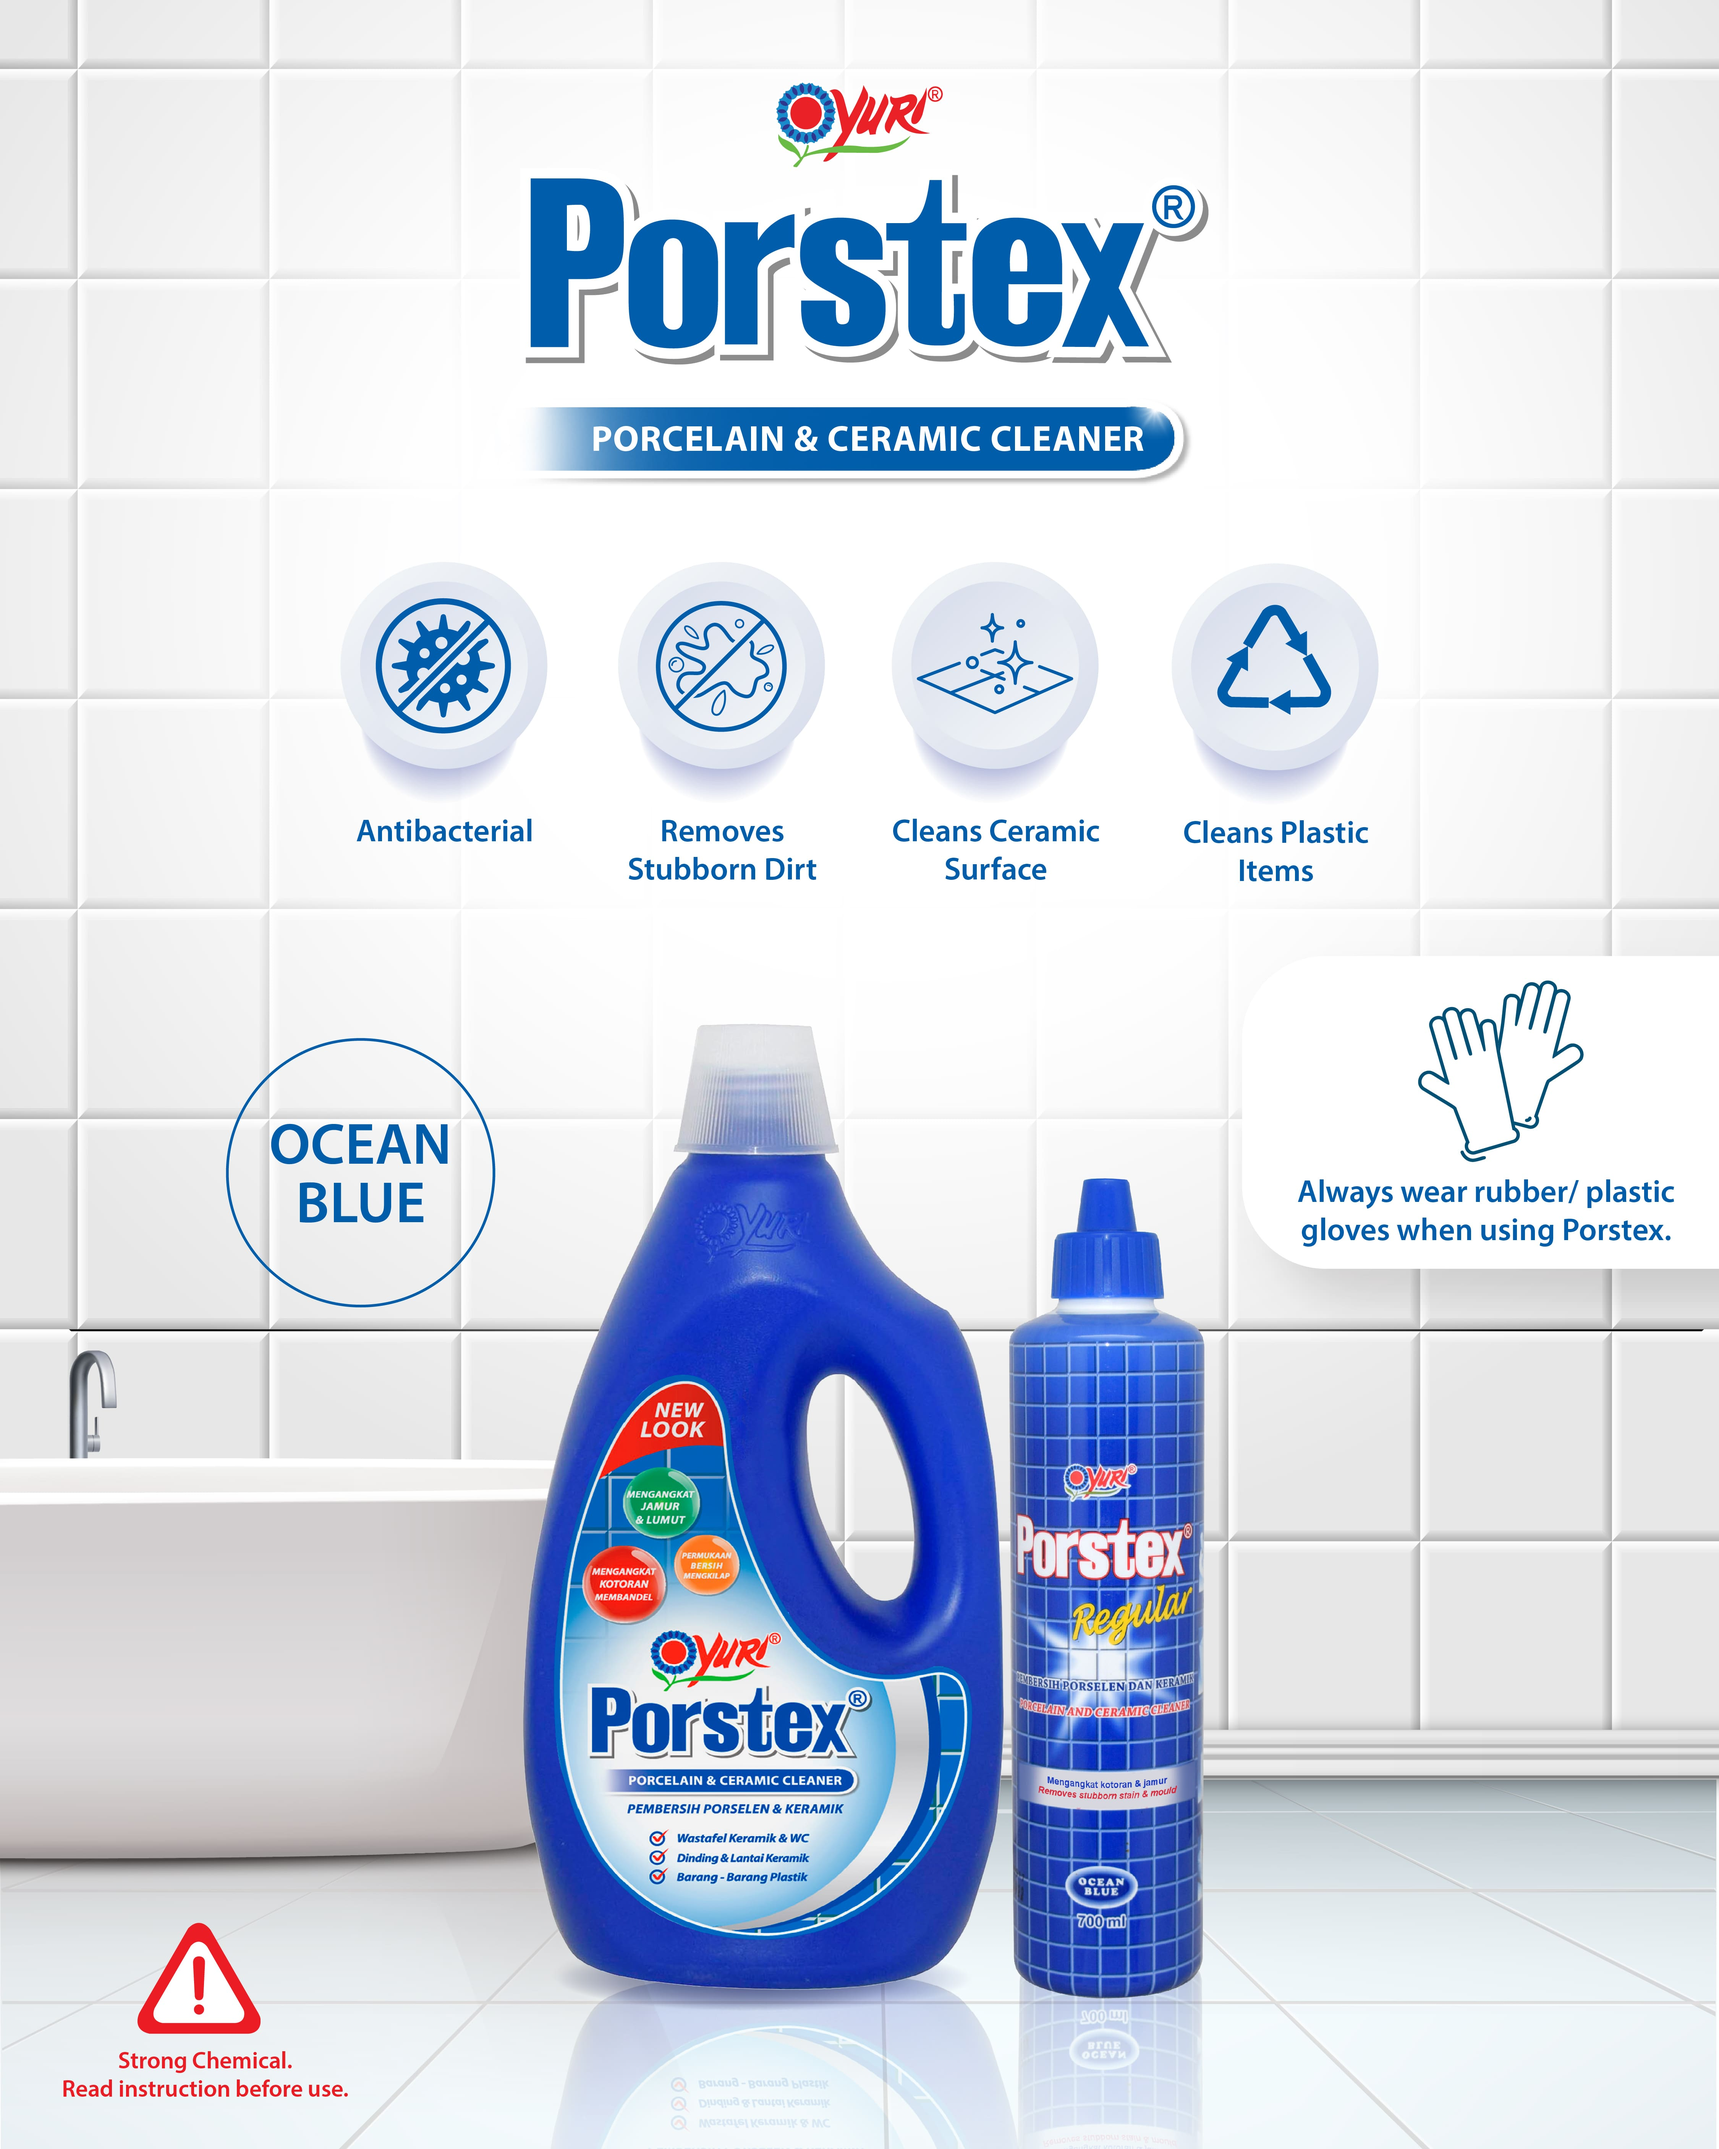
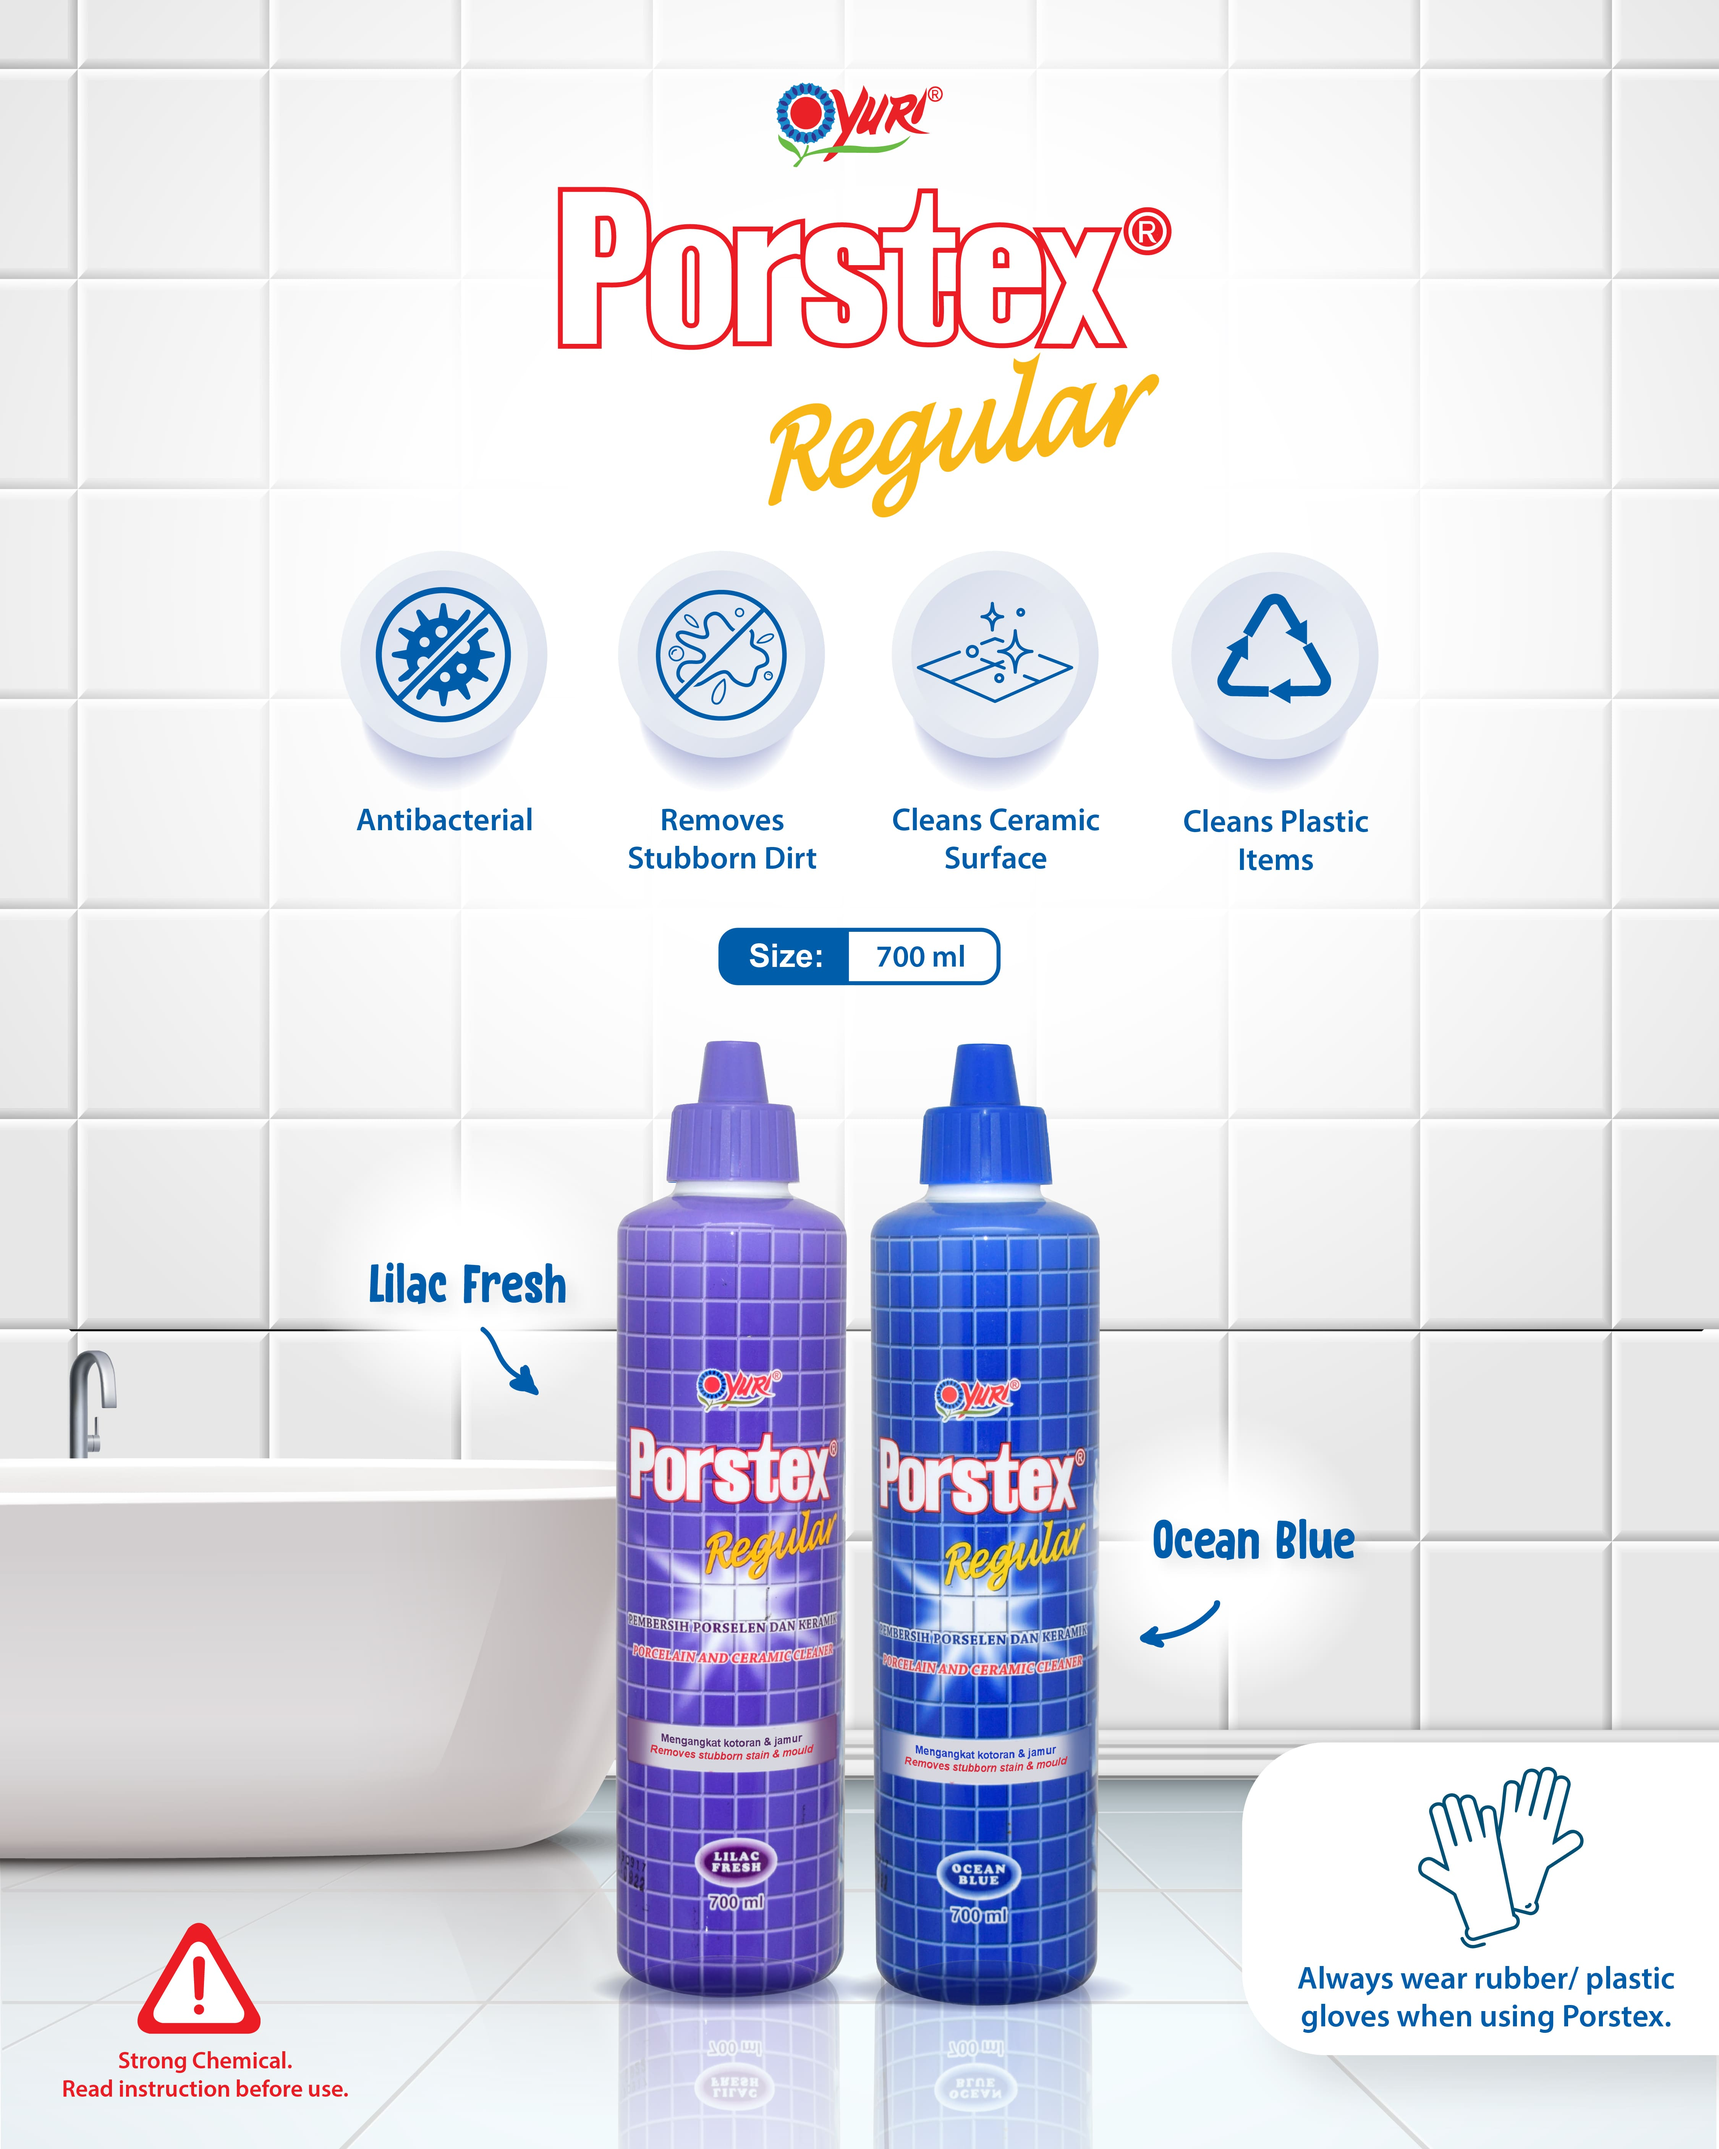
update infografis porstex

diff --git a/public/css/style.css b/public/css/style.css
@@ -268,6 +268,23 @@ a:active {
 /* Mobile Screen */
 @media only screen and (max-width: 600px) {
 
+    #yurisolbrands{
+        width: 102px;
+        margin-left: -85px;
+    }
+
+    #yurisoftbrands{
+        width: 102px;
+    }
+
+    #footerprodukporstex{
+        height: 50px;
+        padding-top: 10px;
+        position: fixed;
+        bottom: 0;
+        width: 100%; 
+    }
+
     #footerproduktril{
         height: 50px;
         padding-top: 10px;
@@ -987,6 +1004,16 @@ a:active {
 
 /* Mobile Phone Iphone*/
 @media only screen and (min-width: 410px) and (max-width: 600px) { 
+
+    #yurisolbrands{
+        width: 110px;
+        margin-left: -85px;
+    }
+
+    #yurisoftbrands{
+        width: 110px;
+    }
+
     .box1 {
         width: 115px;
         height: 20px;
@@ -2385,6 +2412,14 @@ a:active {
 
 /* Tablet Screen */
 @media screen and (min-width: 800px) and (max-width: 900px) {
+
+    #footerprodukporstex{
+        height: 50px;
+        padding-top: 10px;
+        position: fixed;
+        bottom: 0;
+        width: 100%; 
+    }
 
     #footerproduktril{
         height: 50px;

diff --git a/resources/views/brands/produkporstexreguler.blade.php b/resources/views/brands/produkporstexreguler.blade.php
@@ -4,9 +4,9 @@
 
 <head>
     <meta charset="utf-8" />
-    <meta name="description" content="Yuri Trill Produk">
+    <meta name="description" content="Yuri Porstex Produk">
     <meta name="viewport" content="width=device-width, initial-scale=1" />
-    <title>Yuri - Trill</title>
+    <title>Yuri - Porstex</title>
     <link href="https://cdn.jsdelivr.net/npm/bootstrap@5.3.3/dist/css/bootstrap.min.css" rel="stylesheet"
         integrity="sha384-QWTKZyjpPEjISv5WaRU9OFeRpok6YctnYmDr5pNlyT2bRjXh0JMhjY6hW+ALEwIH" crossorigin="anonymous" />
     <link rel="icon" href="{{ asset('images/logo-8.png') }}" />
@@ -120,17 +120,16 @@
 <div class="container">
 
     <div class="caption text-center">
-        <img src="images/infografisproduk/yuri/tril/logoyuritril.png" alt="" width="150px">
+        <img src="images/infografisproduk/yuri/porstex/logoporstex.png" alt="" width="150px">
     </div>
 
     <div class="aganolgeneral">
-        <img src="images/infografisproduk/yuri/tril/trilinfograph-01.jpg" alt="" />
+        <img src="images/infografisproduk/yuri/porstex/porstex-02.jpg" alt="" />
     </div>
 
     <div class="button-brand">
-        <a href="https://www.yurishop.co/id/product/Tril-Ironing-Starch-Lavender-500-ml" target="_blank"><img
-                src="images/bingkai klik-8.png" class="img-fluid" alt="Responsive image" width="30%"
-                height="10%">
+        <a href="https://www.yurishop.co/id/product/Porstex-Regular-Ocean-Blue-700-ml" target="_blank"><img src="images/bingkai klik-8.png" class="img-fluid"
+                alt="Responsive image" width="30%" height="10%">
             <div class="centered"><strong>Beli Sekarang</strong></div>
         </a>
     </div>
@@ -139,7 +138,7 @@
 <!-- End Container -->
 
     <!-- Start Footer -->
-    <div id="footerproduktril" class="card-footer text-body-secondary bg-dark text-center"
+    <div id="footerprodukporstex" class="card-footer text-body-secondary bg-dark text-center"
         style="margin-top: 30px; height: 40px; padding-top: 5px;">
         <div style="margin-top: 5px;">
             <p style="font-size: 12px; color: white">Copyright © {{ date('Y')}} PT Joenoes Ikamulya.</p>

diff --git a/resources/views/brands/produkporstexkloset.blade.php b/resources/views/brands/produkporstexkloset.blade.php
@@ -4,9 +4,9 @@
 
 <head>
     <meta charset="utf-8" />
-    <meta name="description" content="Yuri Trill Produk">
+    <meta name="description" content="Yuri Porstex Produk">
     <meta name="viewport" content="width=device-width, initial-scale=1" />
-    <title>Yuri - Trill</title>
+    <title>Yuri - Porstex</title>
     <link href="https://cdn.jsdelivr.net/npm/bootstrap@5.3.3/dist/css/bootstrap.min.css" rel="stylesheet"
         integrity="sha384-QWTKZyjpPEjISv5WaRU9OFeRpok6YctnYmDr5pNlyT2bRjXh0JMhjY6hW+ALEwIH" crossorigin="anonymous" />
     <link rel="icon" href="{{ asset('images/logo-8.png') }}" />
@@ -120,17 +120,16 @@
 <div class="container">
 
     <div class="caption text-center">
-        <img src="images/infografisproduk/yuri/tril/logoyuritril.png" alt="" width="150px">
+        <img src="images/infografisproduk/yuri/porstex/logoporstex.png" alt="" width="150px">
     </div>
 
     <div class="aganolgeneral">
-        <img src="images/infografisproduk/yuri/tril/trilinfograph-01.jpg" alt="" />
+        <img src="images/infografisproduk/yuri/porstex/porstexKLOSET-01.jpg" alt="" />
     </div>
 
     <div class="button-brand">
-        <a href="https://www.yurishop.co/id/product/Tril-Ironing-Starch-Lavender-500-ml" target="_blank"><img
-                src="images/bingkai klik-8.png" class="img-fluid" alt="Responsive image" width="30%"
-                height="10%">
+        <a href="https://www.yurishop.co/id/product/Porstex-Kloset-500-ml" target="_blank"><img src="images/bingkai klik-8.png" class="img-fluid"
+                alt="Responsive image" width="30%" height="10%">
             <div class="centered"><strong>Beli Sekarang</strong></div>
         </a>
     </div>
@@ -139,7 +138,7 @@
 <!-- End Container -->
 
     <!-- Start Footer -->
-    <div id="footerproduktril" class="card-footer text-body-secondary bg-dark text-center"
+    <div id="footerprodukporstex" class="card-footer text-body-secondary bg-dark text-center"
         style="margin-top: 30px; height: 40px; padding-top: 5px;">
         <div style="margin-top: 5px;">
             <p style="font-size: 12px; color: white">Copyright © {{ date('Y')}} PT Joenoes Ikamulya.</p>

diff --git a/resources/views/brands/householdcleaner.blade.php b/resources/views/brands/householdcleaner.blade.php
@@ -177,9 +177,9 @@
         </div>
 
         <div class="d-flex p-3 justify-content-center">
-            <div class="p-2"><a href="{{ route('brands.yurisoft') }}" ><img src="images/household13.png" alt="" /></a></div>
             <div class="p-2"><a href="{{ route('brands.porstex') }}" ><img src="images/household14.png" alt="" /></a></div>
-            <div class="p-2"><a href="{{ route('brands.yurisol') }}" ><img src="images/household15.png" alt="" /></a></div>
+            <div class="p-2"><a href="{{ route('brands.porstexkloset') }}" ><img src="images/household22.png" alt="" /></a></div>
+            <div class="p-2"><a href="{{ route('brands.porstexreguler') }}" ><img src="images/household23.png" alt="" /></a></div>
         </div>
 
         <div class="d-flex p-3 justify-content-center">
@@ -192,6 +192,12 @@
             <div class="p-2"><a href="{{ route('brands.laundrydisinfektant') }}" ><img src="images/household19.png" alt="" /></a></div>
             <div class="p-2"><a href="{{ route('brands.disinfektantspray') }}" ><img src="images/household20.png" alt="" /></a></div>
             <div class="p-2"><a href="{{ route('brands.handmoisturizer') }}" ><img src="images/household21.png" alt="" /></a></div>
+        </div>
+
+        <div class="d-flex p-3 justify-content-center">
+            <div id="yurisolbrands" class="p-2"><a href="{{ route('brands.yurisol') }}" ><img src="images/household15.png" alt="" /></a></div>
+            <div id="yurisoftbrands" class="p-2"><a href="{{ route('brands.yurisoft') }}" ><img src="images/household13.png" alt="" /></a></div>
+            <div class="p-2"><a href="{{ route('brands.yurisoft') }}" ><img src="images/" alt="" /></a></div>
         </div>
     </div>
     <!-- End Content-->

diff --git a/resources/views/brands/produkporstex.blade.php b/resources/views/brands/produkporstex.blade.php
@@ -123,23 +123,8 @@
         <img src="images/infografisproduk/yuri/porstex/logoporstex.png" alt="" width="150px">
     </div>
 
-    <div id="imagebrand" class="row mt-3">
-        <div class="col-6">
-            <img class="aganol1" src="images/infografisproduk/yuri/porstex/porstex-01.jpg" alt=""
-                width="100%" style="border-radius: 10%;">
-        </div>
-        <div class="col-6">
-            <img class="aganol2" src="images/infografisproduk/yuri/porstex/porstex-02.jpg" alt=""
-                width="100%" width="100%" style="border-radius: 10%;">
-        </div>
-        <div class="col-6 mt-3">
-            <img class="aganol3" src="images/infografisproduk/yuri/porstex/porstex-03.jpg" alt=""
-                width="100%" alt="" width="100%" style="border-radius: 10%;">
-        </div>
-        <div class="col-6 mt-3">
-            <img class="aganol4" src="images/infografisproduk/yuri/porstex/porstexkloset-01.jpg" alt=""
-                width="100%" width="100%" style="border-radius: 10%;">
-        </div>
+    <div class="aganolgeneral">
+        <img src="images/infografisproduk/yuri/porstex/porstex-01.jpg" alt="" />
     </div>
 
     <div class="button-brand">

diff --git a/routes/web.php b/routes/web.php
@@ -48,6 +48,8 @@ Route::get('/ligent', [HomeController::class,'ligentproduk'])->name('brands.lige
 Route::get('/lysorin', [HomeController::class,'lysorinproduk'])->name('brands.lysorin');
 Route::get('/yurisoft', [HomeController::class,'yurisoftproduk'])->name('brands.yurisoft');
 Route::get('/porstex', [HomeController::class,'porstexproduk'])->name('brands.porstex');
+Route::get('/porstexreguler', [HomeController::class,'porstexregulerproduk'])->name('brands.porstexreguler');
+Route::get('/porstexkloset', [HomeController::class,'porstexklosetproduk'])->name('brands.porstexkloset');
 Route::get('/yurisol', [HomeController::class,'yurisolproduk'])->name('brands.yurisol');
 Route::get('/taf', [HomeController::class,'tafproduk'])->name('brands.taf');
 Route::get('/yurimatic', [HomeController::class,'yurimaticproduk'])->name('brands.yurimatic');

diff --git a/resources/views/homepage/index.blade.php b/resources/views/homepage/index.blade.php
@@ -314,8 +314,8 @@ yang terjangkau oleh semua lapisan masyarakat">
                         </div>
                     </div>
                 @empty
-                    <div class="alert alert-danger">
-                        Data Products belum Tersedia.
+                    <div class="alert alert-danger" style="text-align: center">
+                        Data Media belum Tersedia.
                     </div>
                 @endforelse
             </div>

diff --git a/app/Http/Controllers/HomeController.php b/app/Http/Controllers/HomeController.php
@@ -208,6 +208,16 @@ class HomeController extends Controller
         return view('brands.produkporstex');
     }
 
+    public function porstexregulerproduk()
+    {
+        return view('brands.produkporstexreguler');
+    }
+
+    public function porstexklosetproduk()
+    {
+        return view('brands.produkporstexkloset');
+    }
+
     public function yurisolproduk()
     {
         return view('brands.produkyurisol');
